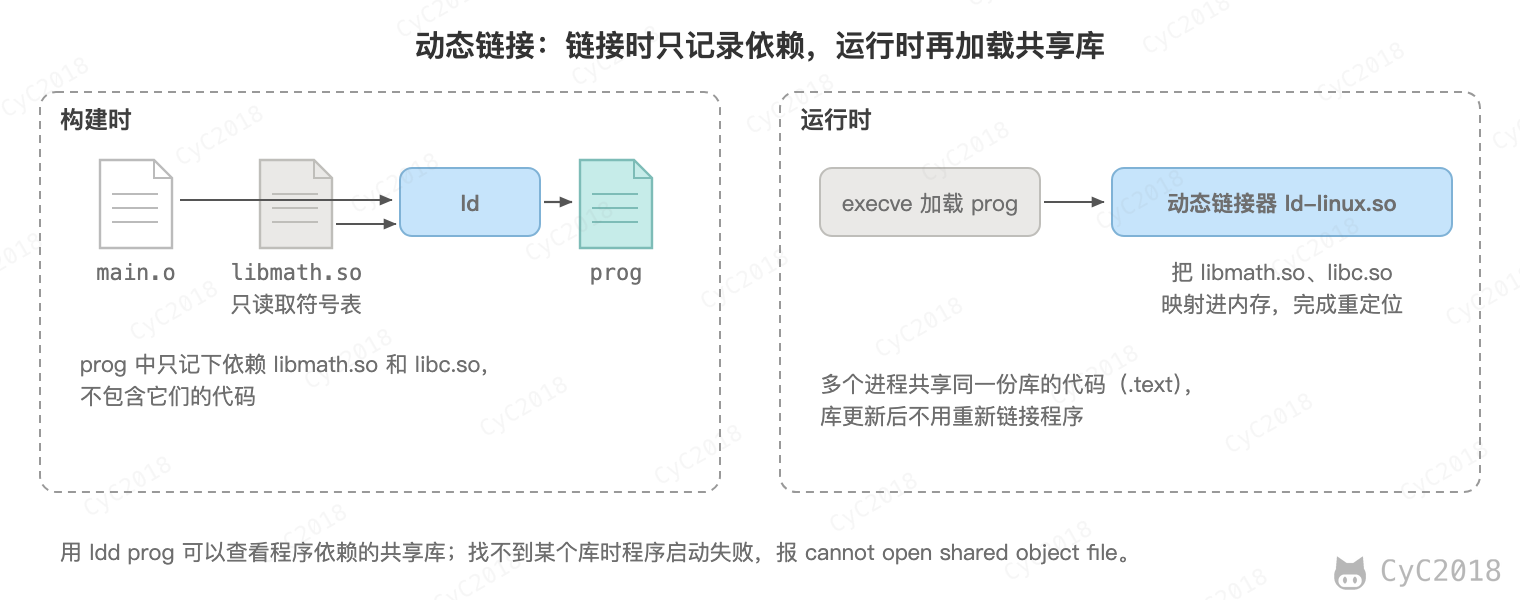
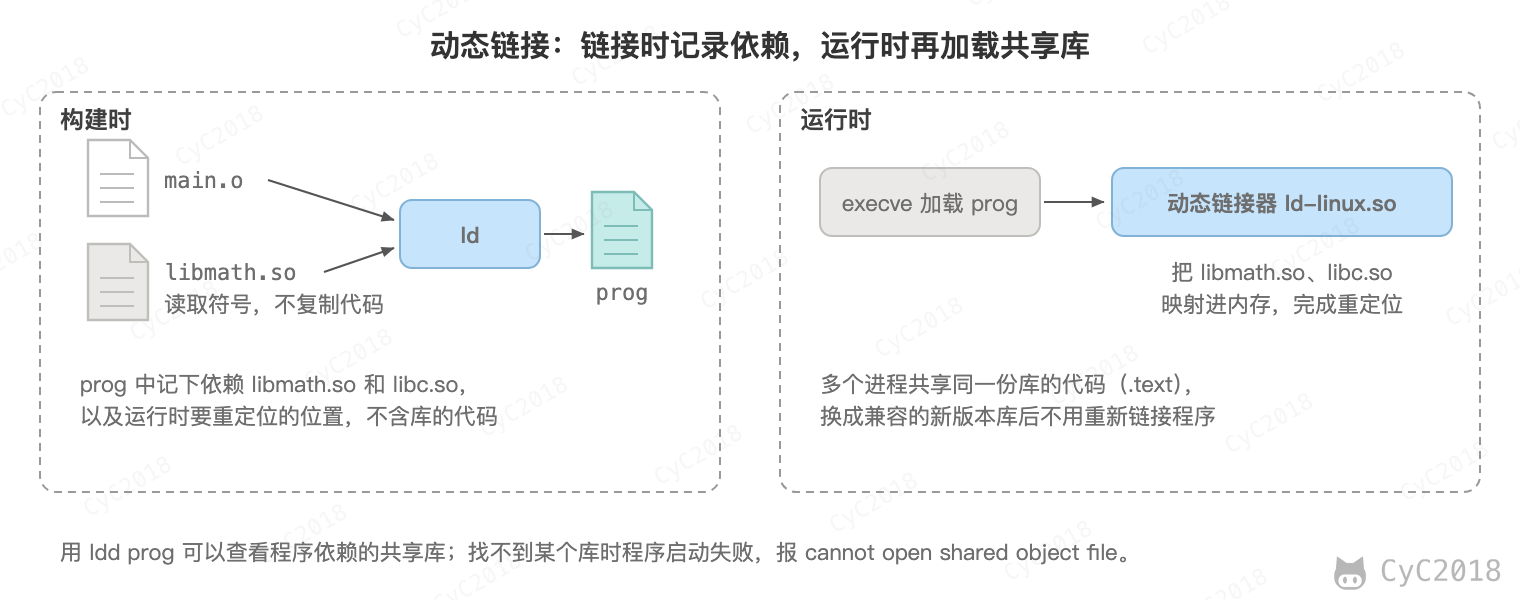
Update 计算机操作系统 - 链接.md
重新绘制编译流程与动静态链接配图；补充符号解析与重定位示例，更新编译链接步骤、静态库概念及动态链接代价的相关描述。

diff --git a/notes/计算机操作系统 - 链接.md b/notes/计算机操作系统 - 链接.md
@@ -24,7 +24,7 @@ int main()
 }
 ```
 
-在 Unix 系统上，由编译器把源文件转换为目标文件。
+在 Unix 系统上，由编译器驱动程序 gcc 把源文件转换为可执行目标文件。
 
 ```bash
 gcc -o hello hello.c
@@ -34,17 +34,19 @@ gcc -o hello hello.c
 
 <div align="center"> <img src="pics/compile-pipeline.png" width="760px"/> </div><br>
 
-- 预处理阶段：处理以 # 开头的预处理命令；
+- 预处理阶段：处理以 # 开头的预处理命令，例如把 #include 的 stdio.h 的内容插入源文件；
 - 编译阶段：翻译成汇编文件；
 - 汇编阶段：将汇编文件翻译成可重定位目标文件；
-- 链接阶段：将可重定位目标文件和 printf.o 等单独预编译好的目标文件进行合并，得到最终的可执行目标文件。
+- 链接阶段：链接器把 hello.o 和用到的库（printf 在 C 标准库 libc 中）链接成可执行目标文件。gcc 默认使用共享库 libc.so，可执行文件中只记下对它的依赖，见[动态链接](#动态链接)；加 -static 时才把库中用到的目标文件复制进来，见[静态链接](#静态链接)。
 
 ## 静态链接
 
 静态链接器以一组可重定位目标文件为输入，生成一个完全链接的可执行目标文件作为输出。链接器主要完成以下两个任务：
 
-- 符号解析：每个符号对应于一个函数、一个全局变量或一个静态变量，符号解析的目的是将每个符号引用与一个符号定义关联起来。
-- 重定位：链接器通过把每个符号定义与一个内存位置关联起来，然后修改所有对这些符号的引用，使得它们指向这个内存位置。
+- 符号解析：每个符号对应于一个函数、一个全局变量或一个静态变量，符号解析的目的是将每个符号引用与一个符号定义关联起来；
+- 重定位：链接器把每个符号定义与一个内存位置关联起来，然后修改所有对这些符号的引用，使它们指向这个内存位置。
+
+例如 main.c 调用了 sum.c 中定义的 sum（见下图）。单独编译 main.c 时不知道 sum 在哪里，main.o 中调用指令的目标位移先填 0，并记下一条重定位条目“这里要指向 sum”。链接时先在 sum.o 中找到 sum 的定义（符号解析），再把两个文件的代码合并、确定 sum 的地址，按重定位条目算出调用指令到 sum 的相对位移并填回（重定位）。
 
 <div align="center"> <img src="pics/static-link.png" width="760px"/> </div><br>
 
@@ -52,19 +54,21 @@ gcc -o hello hello.c
 
 - 可执行目标文件：可以直接在内存中执行；
 - 可重定位目标文件：可与其它可重定位目标文件在链接阶段合并，创建一个可执行目标文件；
-- 共享目标文件：这是一种特殊的可重定位目标文件，可以在加载或者运行时被动态加载进内存并链接；
+- 共享目标文件：这是一种特殊的可重定位目标文件，可以在加载或者运行时被动态加载进内存并链接。
 
 ## 动态链接
 
-静态库有以下两个问题：
+静态库（Linux 上是 .a 文件）是多个可重定位目标文件的打包，静态链接时把用到的目标文件复制进可执行文件。它有以下两个问题：
 
-- 当静态库更新时那么整个程序都要重新进行链接；
-- 对于 printf 这种标准函数库，如果每个程序都要有代码，这会极大浪费资源。
+- 静态库更新后，程序要重新链接才能用上新版本；
+- printf 这类标准库函数的代码被复制进每个程序，浪费磁盘和内存。
 
 共享库是为了解决静态库的这两个问题而设计的，在 Linux 系统中通常用 .so 后缀来表示，Windows 系统上它们被称为 DLL。它具有以下特点：
 
 - 在给定的文件系统中一个库只有一个文件，所有引用该库的可执行目标文件都共享这个文件，它不会被复制到引用它的可执行文件中；
 - 在内存中，一个共享库的 .text 节（已编译程序的机器代码）的一个副本可以被不同的正在运行的进程共享。
+
+代价是程序运行时依赖系统中有版本兼容的共享库，缺少时程序无法启动；程序启动时还要由动态链接器加载共享库并完成重定位，比静态链接的程序多一些启动开销。
 
 <div align="center"> <img src="pics/dynamic-link.png" width="760px"/> </div><br>
 
